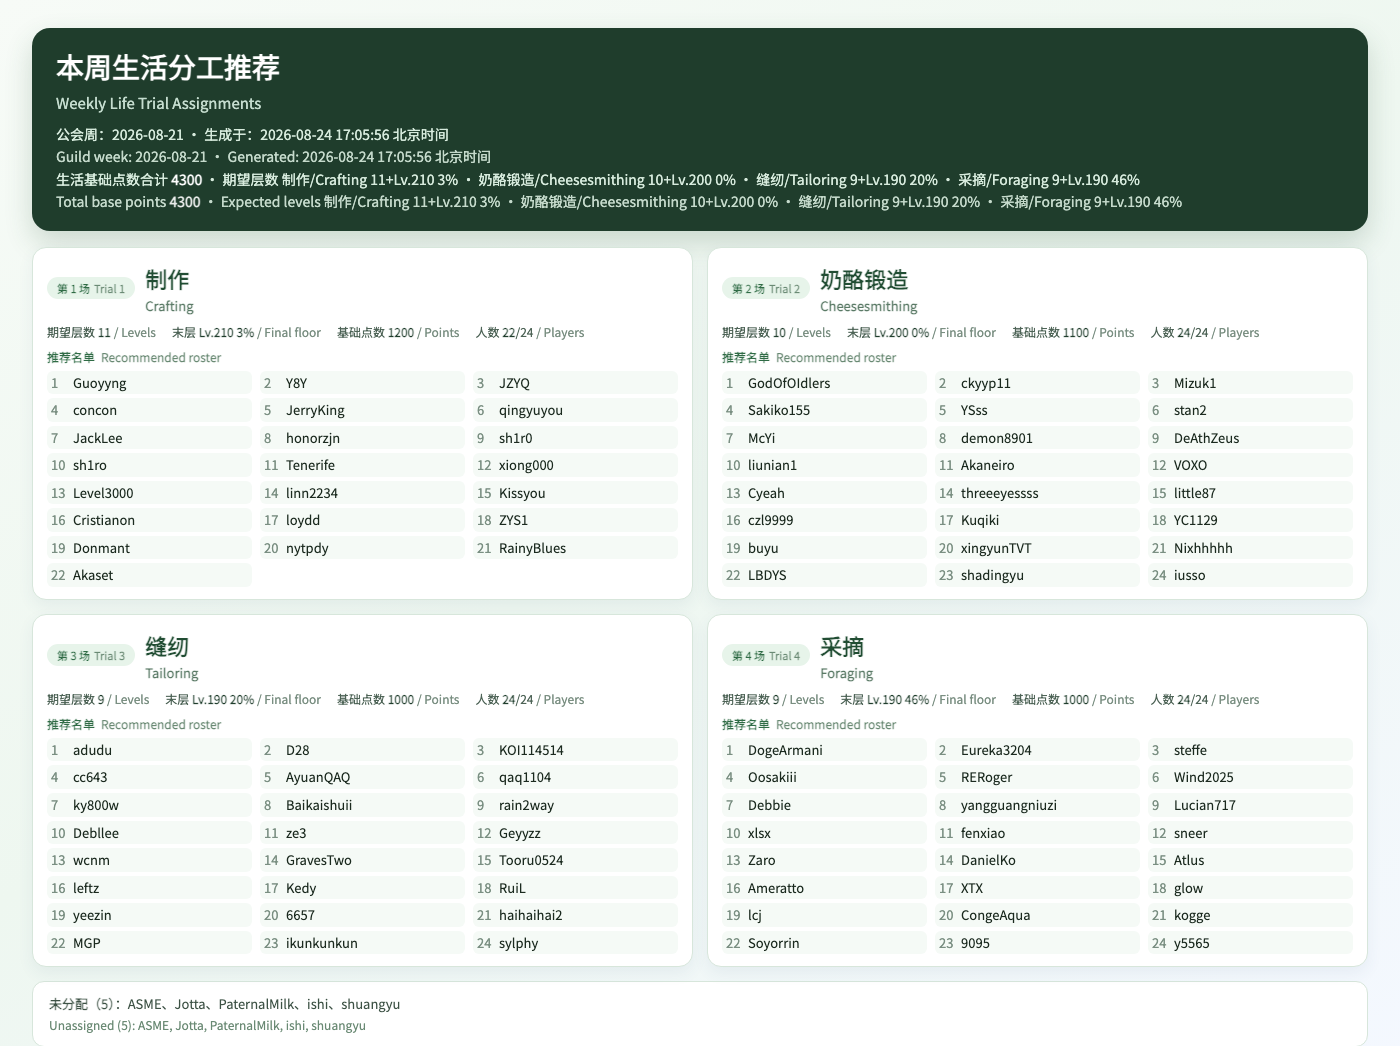
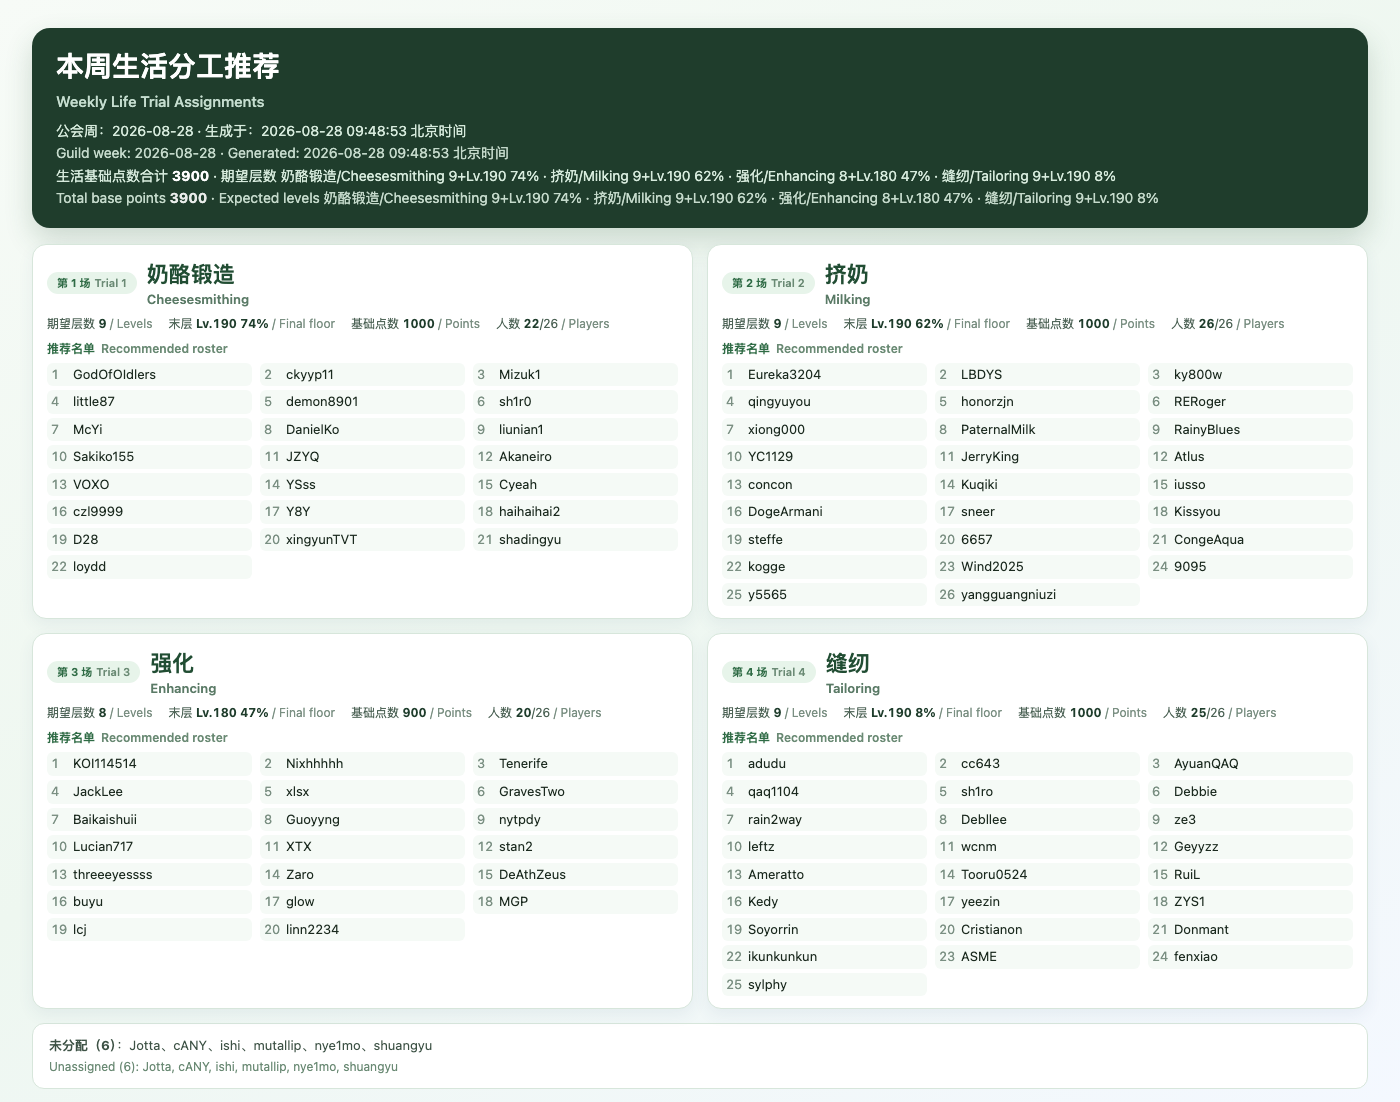
chore: refresh life assignment report (2026-08-28T00:00:00.000Z, 3900 pts)

Changed region(s): [[0.0, 0.0306, 0.9829, 1.0]]

diff --git a/reports/combat-assignment/index.html b/reports/combat-assignment/index.html
@@ -132,7 +132,7 @@
     <div class="header-text">
       <h1><span class="i18n" data-zh="本周分工" data-en="Weekly Assignments">本周分工</span></h1>
       <div class="meta">
-        <span class="i18n" data-zh="战斗方案：" data-en="Combat plan: ">战斗方案：</span>2026-08-24 17:05:56 北京时间
+        <span class="i18n" data-zh="战斗方案：" data-en="Combat plan: ">战斗方案：</span>2026-08-28 09:48:53 北京时间
         <span class="i18n" data-zh=" · 点选下方条目浏览生活/战斗图片" data-en=" · Pick a tab to browse life/combat images"> · 点选下方条目浏览生活/战斗图片</span>
       </div>
     </div>

diff --git a/reports/life-assignment/README.md b/reports/life-assignment/README.md
@@ -1,8 +1,8 @@
 # 本周生活分工
 
-- 公会周：`2026-08-21`
-- 生成时间：`2026-08-24 17:05:56 北京时间`
-- 基础点数合计：`4300`
+- 公会周：`2026-08-28`
+- 生成时间：`2026-08-28 09:48:53 北京时间`
+- 基础点数合计：`3900`
 
 图片：https://raw.githubusercontent.com/xiahuaaaa/mwi-guild-trial-helper/main/reports/life-assignment/latest.png
 JSON：https://raw.githubusercontent.com/xiahuaaaa/mwi-guild-trial-helper/main/reports/life-assignment/latest.json
